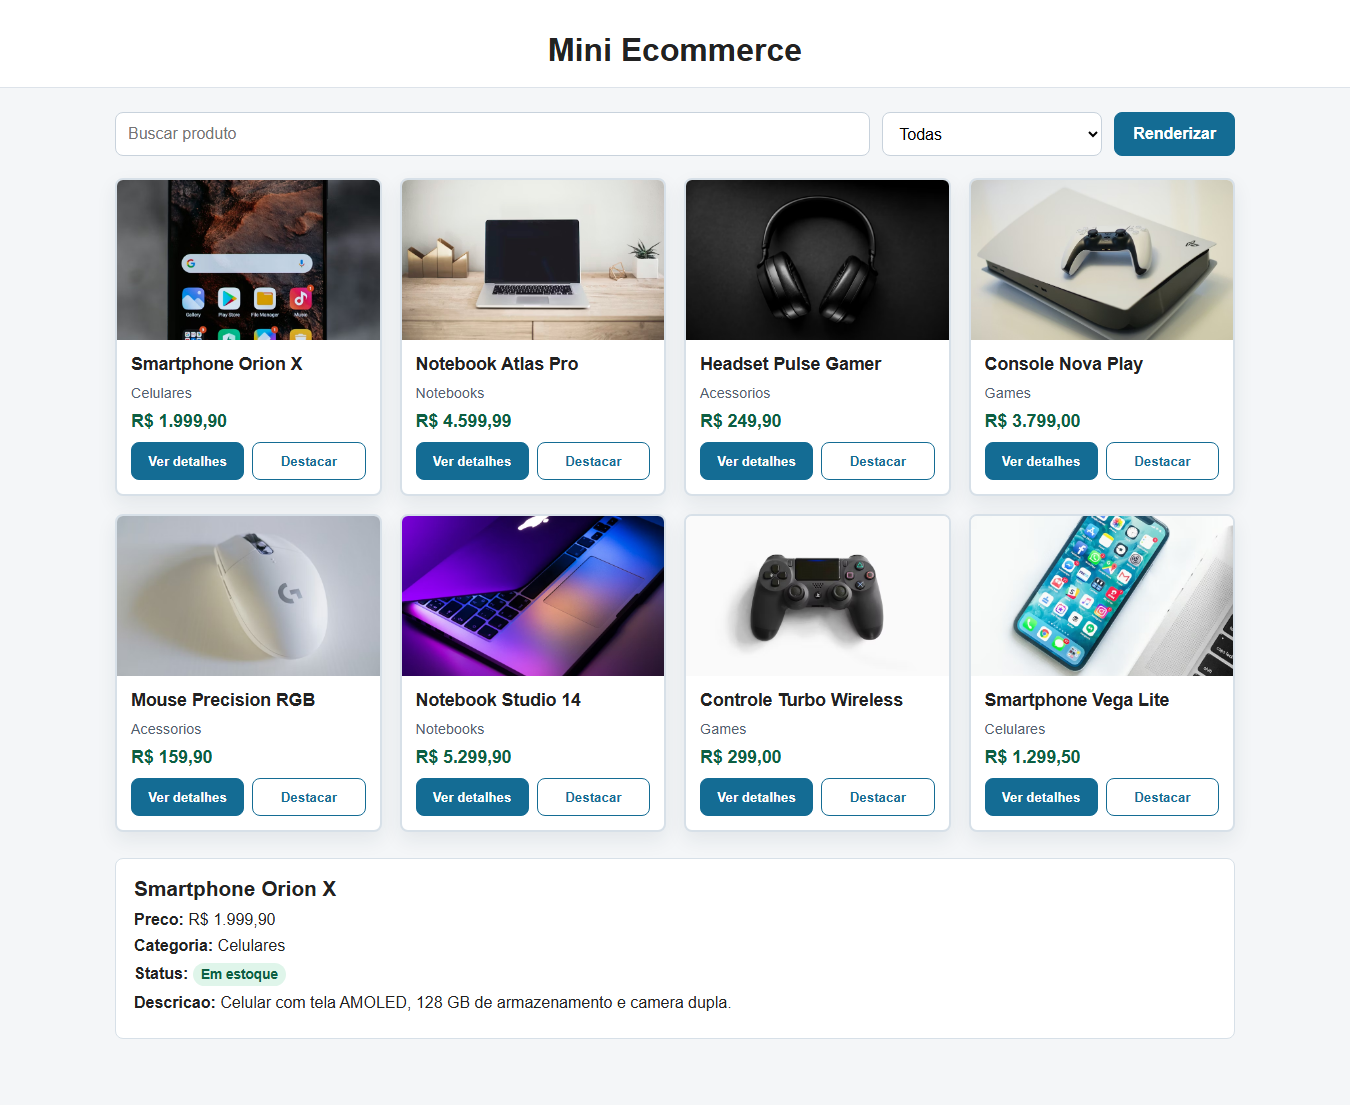
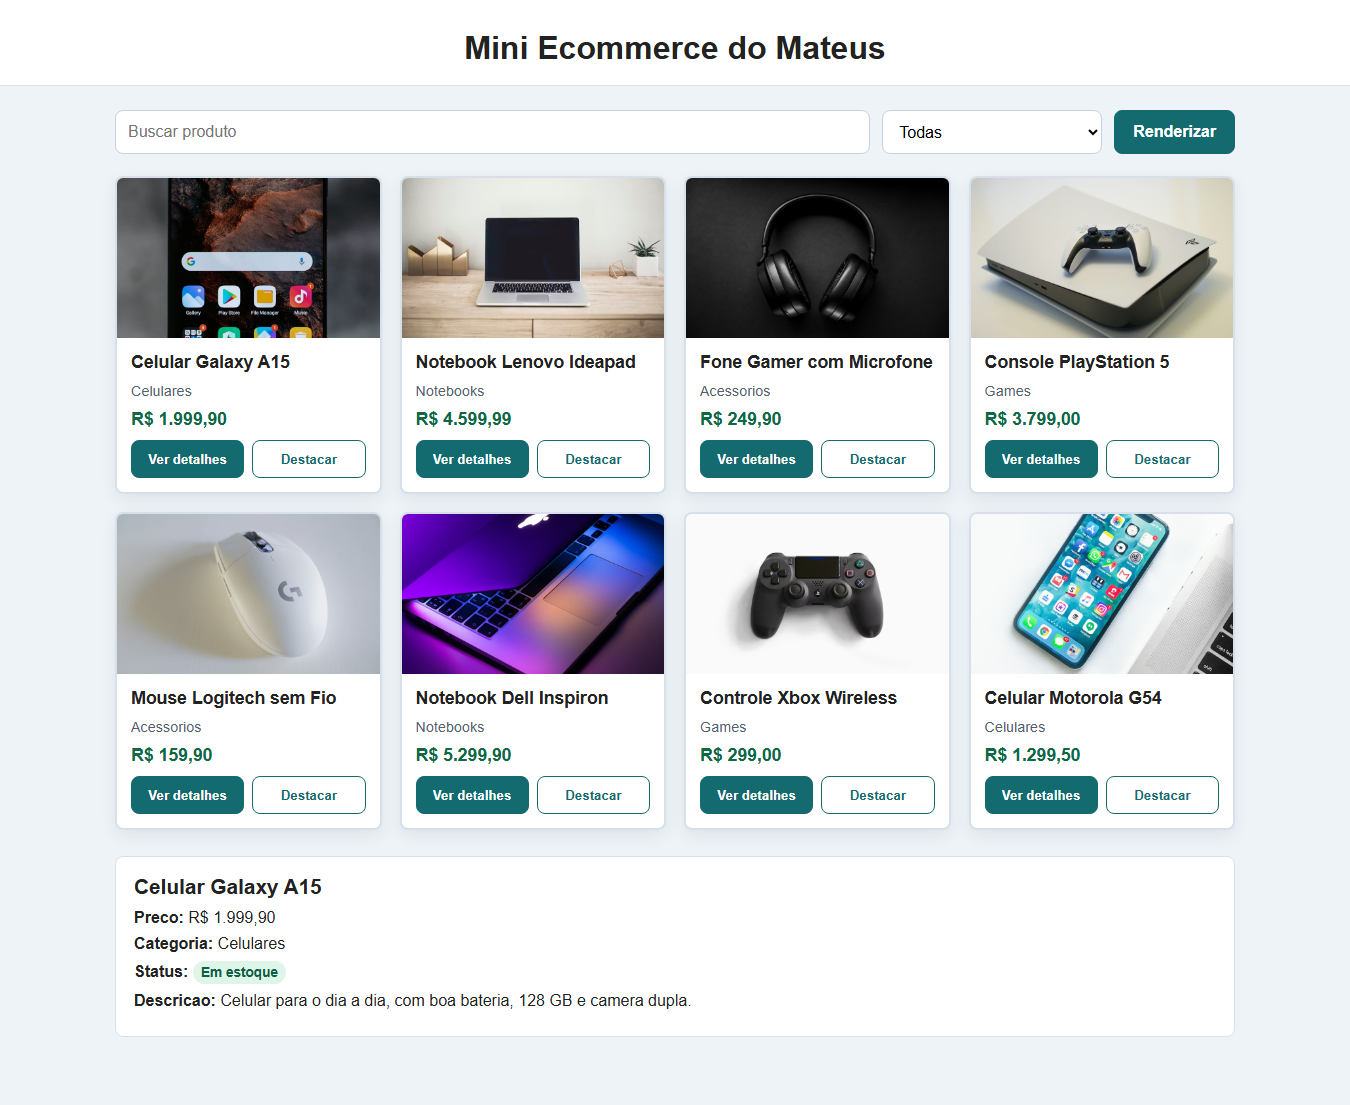
Modificações no trabalho

diff --git a/script.js b/script.js
@@ -2,74 +2,74 @@ const data = {
   produtos: [
     {
       id: 1,
-      nome: "Smartphone Orion X",
+      nome: "Celular Galaxy A15",
       preco: 1999.9,
       categoria: "Celulares",
       imagem: "https://images.unsplash.com/photo-1598327105666-5b89351aff97?auto=format&fit=crop&w=800&q=80",
-      descricao: "Celular com tela AMOLED, 128 GB de armazenamento e camera dupla.",
+      descricao: "Celular para o dia a dia, com boa bateria, 128 GB e camera dupla.",
       emEstoque: true
     },
     {
       id: 2,
-      nome: "Notebook Atlas Pro",
+      nome: "Notebook Lenovo Ideapad",
       preco: 4599.99,
       categoria: "Notebooks",
       imagem: "https://images.unsplash.com/photo-1496181133206-80ce9b88a853?auto=format&fit=crop&w=800&q=80",
-      descricao: "Notebook leve com SSD de 512 GB, 16 GB de RAM e processador de alta performance.",
+      descricao: "Notebook bom para estudar, programar e fazer trabalhos da faculdade.",
       emEstoque: true
     },
     {
       id: 3,
-      nome: "Headset Pulse Gamer",
+      nome: "Fone Gamer com Microfone",
       preco: 249.9,
       categoria: "Acessorios",
       imagem: "https://images.unsplash.com/photo-1599669454699-248893623440?auto=format&fit=crop&w=800&q=80",
-      descricao: "Headset com microfone removivel, som surround e almofadas confortaveis.",
+      descricao: "Fone com microfone para jogar, conversar online e assistir aulas.",
       emEstoque: true
     },
     {
       id: 4,
-      nome: "Console Nova Play",
+      nome: "Console PlayStation 5",
       preco: 3799.0,
       categoria: "Games",
       imagem: "https://images.unsplash.com/photo-1606144042614-b2417e99c4e3?auto=format&fit=crop&w=800&q=80",
-      descricao: "Console de nova geracao com controle sem fio e suporte a jogos em 4K.",
+      descricao: "Console para jogos atuais, com controle sem fio e boa qualidade de imagem.",
       emEstoque: false
     },
     {
       id: 5,
-      nome: "Mouse Precision RGB",
+      nome: "Mouse Logitech sem Fio",
       preco: 159.9,
       categoria: "Acessorios",
       imagem: "https://images.unsplash.com/photo-1527814050087-3793815479db?auto=format&fit=crop&w=800&q=80",
-      descricao: "Mouse ergonomico com sensor ajustavel, botoes programaveis e iluminacao RGB.",
+      descricao: "Mouse simples e confortavel para usar no notebook ou no computador.",
       emEstoque: true
     },
     {
       id: 6,
-      nome: "Notebook Studio 14",
+      nome: "Notebook Dell Inspiron",
       preco: 5299.9,
       categoria: "Notebooks",
       imagem: "https://images.unsplash.com/photo-1517336714731-489689fd1ca8?auto=format&fit=crop&w=800&q=80",
-      descricao: "Notebook compacto para estudos, design e programacao, com bateria de longa duracao.",
+      descricao: "Notebook para estudo e tarefas do dia a dia, com SSD e tela de 15 polegadas.",
       emEstoque: true
     },
     {
       id: 7,
-      nome: "Controle Turbo Wireless",
+      nome: "Controle Xbox Wireless",
       preco: 299.0,
       categoria: "Games",
       imagem: "https://images.unsplash.com/photo-1592840496694-26d035b52b48?auto=format&fit=crop&w=800&q=80",
-      descricao: "Controle sem fio com gatilhos precisos, vibracao e bateria recarregavel.",
+      descricao: "Controle sem fio para jogar no console ou no PC.",
       emEstoque: true
     },
     {
       id: 8,
-      nome: "Smartphone Vega Lite",
+      nome: "Celular Motorola G54",
       preco: 1299.5,
       categoria: "Celulares",
       imagem: "https://images.unsplash.com/photo-1511707171634-5f897ff02aa9?auto=format&fit=crop&w=800&q=80",
-      descricao: "Smartphone intermediario com 64 GB, leitor digital e carregamento rapido.",
+      descricao: "Celular intermediario com leitor digital, bom armazenamento e carregamento rapido.",
       emEstoque: false
     }
   ]
@@ -163,6 +163,7 @@ function renderProducts(produtos) {
 
   const cards = document.querySelectorAll(".card");
   cards.forEach((card) => {
+    // Conferencia pedida na atividade usando querySelectorAll.
     console.log("Card renderizado - data-id:", card.getAttribute("data-id"));
     card.style.transition = "transform 0.2s ease, box-shadow 0.2s ease";
   });

diff --git a/styles.css b/styles.css
@@ -7,11 +7,11 @@ body {
   min-height: 100vh;
   font-family: Arial, Helvetica, sans-serif;
   color: #222222;
-  background: #f4f6f8;
+  background: #eef3f7;
 }
 
 .page-header {
-  padding: 32px 20px 18px;
+  padding: 30px 20px 18px;
   text-align: center;
   background: #ffffff;
   border-bottom: 1px solid #dde3ea;
@@ -54,12 +54,12 @@ body {
   color: #ffffff;
   font-weight: 700;
   cursor: pointer;
-  background: #146c94;
-  border-color: #146c94;
+  background: #146b6f;
+  border-color: #146b6f;
 }
 
 .controls button:hover {
-  background: #0f5879;
+  background: #0f5659;
 }
 
 .product-list {
@@ -76,7 +76,7 @@ body {
   background: #ffffff;
   border: 1px solid #d7e0e8;
   border-radius: 8px;
-  box-shadow: 0 8px 20px rgba(20, 45, 70, 0.08);
+  box-shadow: 0 6px 16px rgba(20, 45, 70, 0.08);
 }
 
 .card img {
@@ -107,7 +107,7 @@ body {
 
 .card-price {
   margin: 0;
-  color: #0d5f43;
+  color: #0d6846;
   font-size: 1.1rem;
   font-weight: 700;
 }
@@ -121,7 +121,7 @@ body {
 
 .card-actions button {
   min-height: 38px;
-  border: 1px solid #146c94;
+  border: 1px solid #146b6f;
   border-radius: 8px;
   font-weight: 700;
   cursor: pointer;
@@ -129,17 +129,17 @@ body {
 
 .btn-details {
   color: #ffffff;
-  background: #146c94;
+  background: #146b6f;
 }
 
 .btn-highlight {
-  color: #146c94;
+  color: #146b6f;
   background: #ffffff;
 }
 
 .highlight {
   border-color: #f2b705 !important;
-  background: #fff8dc;
+  background: #fff7d7;
   box-shadow: 0 12px 28px rgba(153, 104, 0, 0.22);
 }
 

diff --git a/index.html b/index.html
@@ -3,12 +3,12 @@
 <head>
   <meta charset="UTF-8">
   <meta name="viewport" content="width=device-width, initial-scale=1.0">
-  <title>Mini Ecommerce</title>
+  <title>Mini Ecommerce do Mateus</title>
   <link rel="stylesheet" href="styles.css">
 </head>
 <body>
   <header class="page-header">
-    <h1>Mini Ecommerce</h1>
+    <h1>Mini Ecommerce do Mateus</h1>
   </header>
 
   <main class="container">
@@ -26,7 +26,7 @@
 
     <section id="product-details" class="product-details" aria-live="polite">
       <h2>Detalhes do produto</h2>
-      <p>Selecione um produto para ver mais informacoes.</p>
+      <p>Clique em "Ver detalhes" em algum produto para aparecer aqui.</p>
     </section>
   </main>
 

diff --git a/README.md b/README.md
@@ -1,32 +1,32 @@
-# Mini Ecommerce - Catalogo em Cards
+# Mini Ecommerce do Mateus
 
 Aluno: Mateus Andrade  
 Matricula: 1809
 
 ## Descricao
 
-Atividade pratica da semana 9 com manipulacao do DOM em JavaScript. A pagina renderiza cards de produtos, permite busca por texto, filtro por categoria, visualizacao de detalhes e destaque visual dos cards.
+Trabalho da semana 9 feito para praticar funcoes e manipulacao do DOM com JavaScript. Montei um catalogo simples de produtos, com busca, filtro por categoria, detalhes do produto e botao para destacar o card.
 
 ## Funcionalidades
 
-- Renderizacao de pelo menos 8 produtos em cards.
-- Select de categorias preenchido dinamicamente.
-- Busca por texto no nome do produto.
-- Filtro por categoria.
-- Botao "Ver detalhes" exibindo nome, preco, categoria, estoque e descricao.
-- Botao "Destacar" alterando o visual do card.
-- Uso de `getElementById`, `querySelector`, `querySelectorAll`, `innerHTML`, `createElement`, `setAttribute`, `appendChild`, `classList.add`, `style` e `addEventListener`.
+- O catalogo comeca mostrando 8 produtos.
+- As categorias aparecem automaticamente no select.
+- A busca filtra pelo nome do produto.
+- O filtro por categoria funciona junto com a busca.
+- O botao "Ver detalhes" mostra as informacoes completas do produto.
+- O botao "Destacar" muda a aparencia do card.
+- No codigo foram usados `getElementById`, `querySelector`, `querySelectorAll`, `innerHTML`, `createElement`, `setAttribute`, `appendChild`, `classList.add`, `style` e `addEventListener`.
 
 ## Prints
 
-Print da tela com os cards renderizados e a area de detalhes preenchida depois de clicar em "Ver detalhes".
+Print da tela com os cards renderizados e a area de detalhes preenchida depois de clicar em "Ver detalhes":
 
 ![Print da tela](./prints/tela-cards-detalhes.png)
 
-Print do Console do navegador mostrando a saida dos `data-id` gerada com `querySelectorAll`.
+Print do Console do navegador mostrando a saida dos `data-id` gerada com `querySelectorAll`:
 
 ![Print do console](./prints/console-data-id.png)
 
 ## Como executar
 
-Abra o arquivo `index.html` no navegador.
+Abra o arquivo `index.html` no navegador ou acesse a pagina publicada pelo GitHub Pages.
